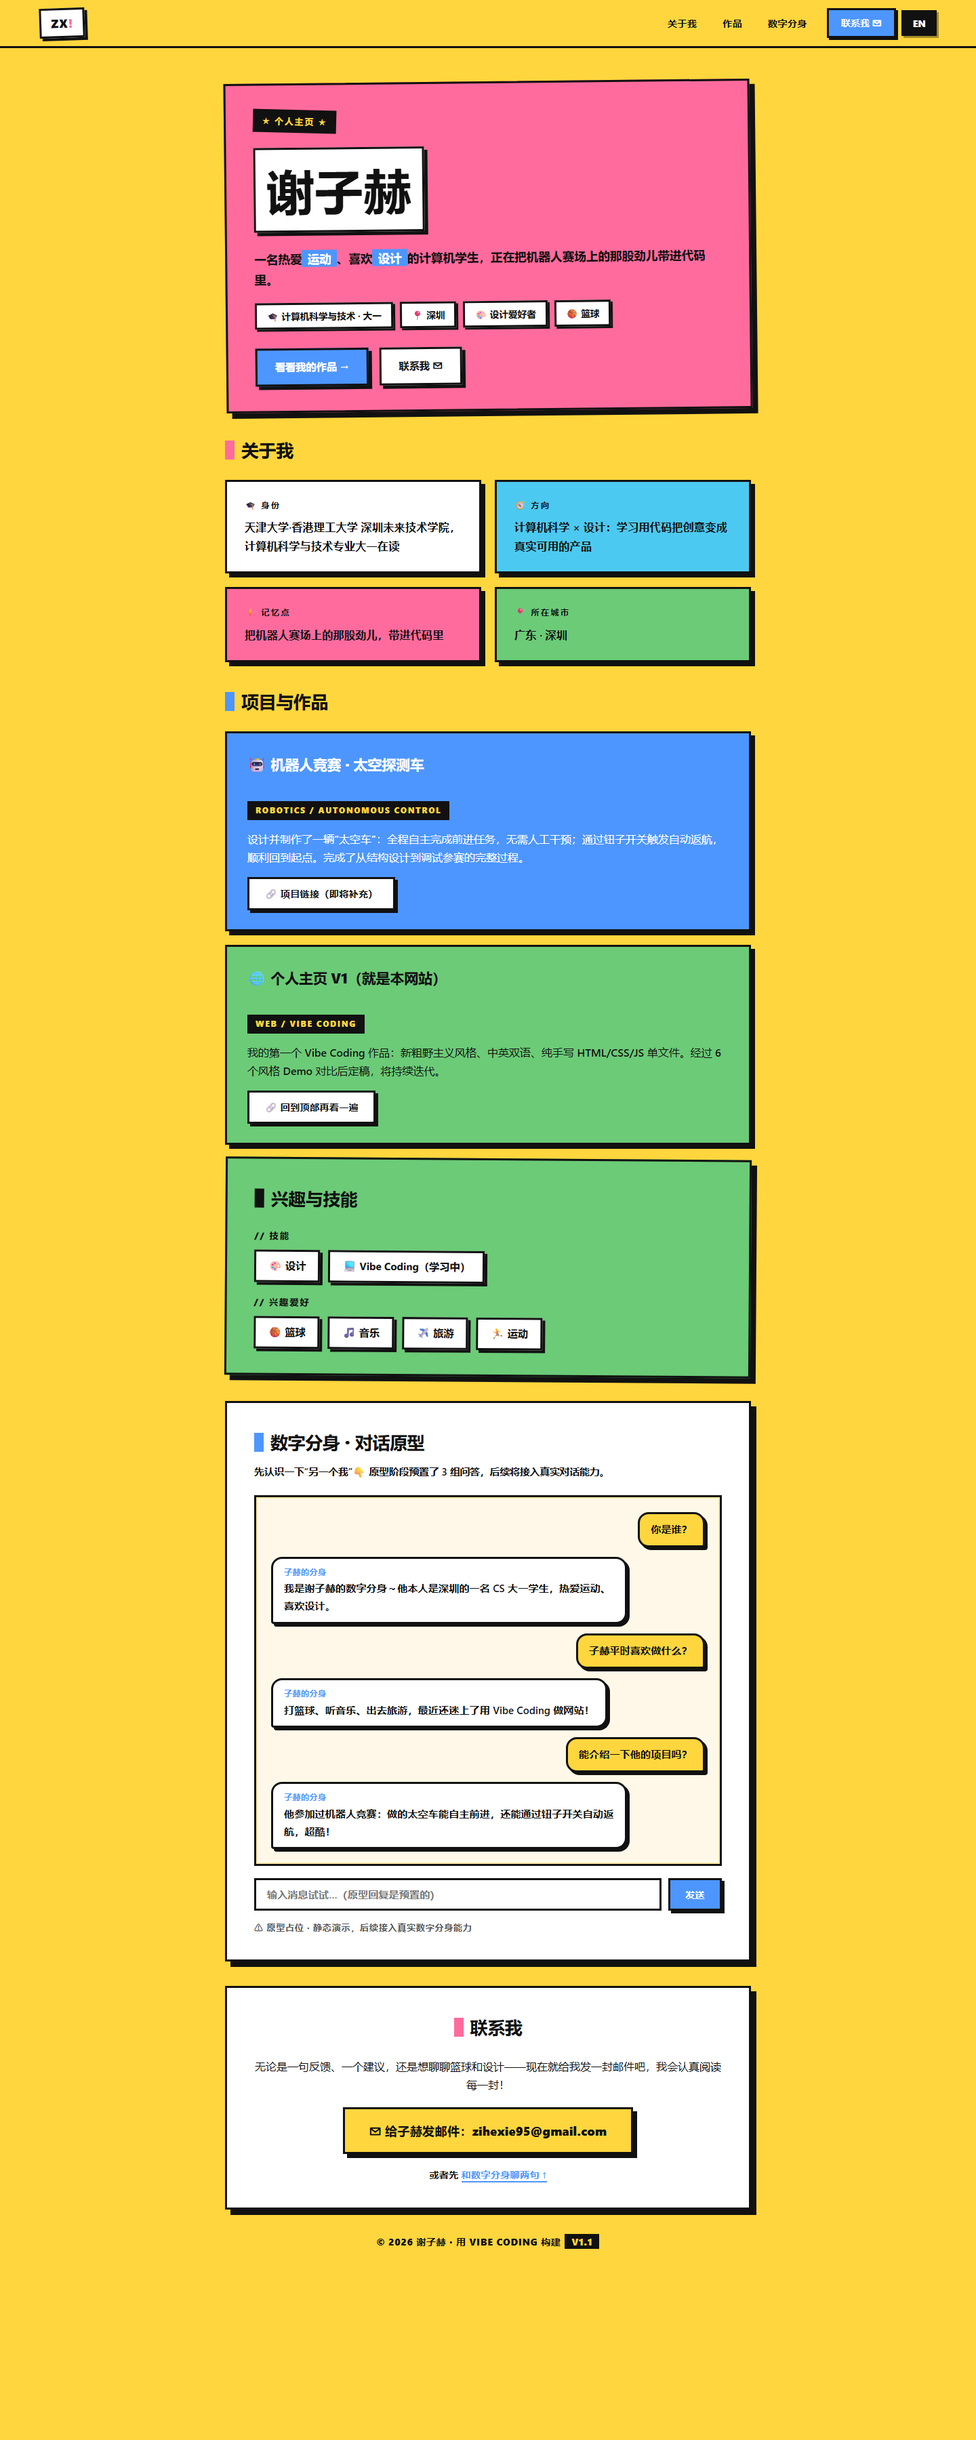
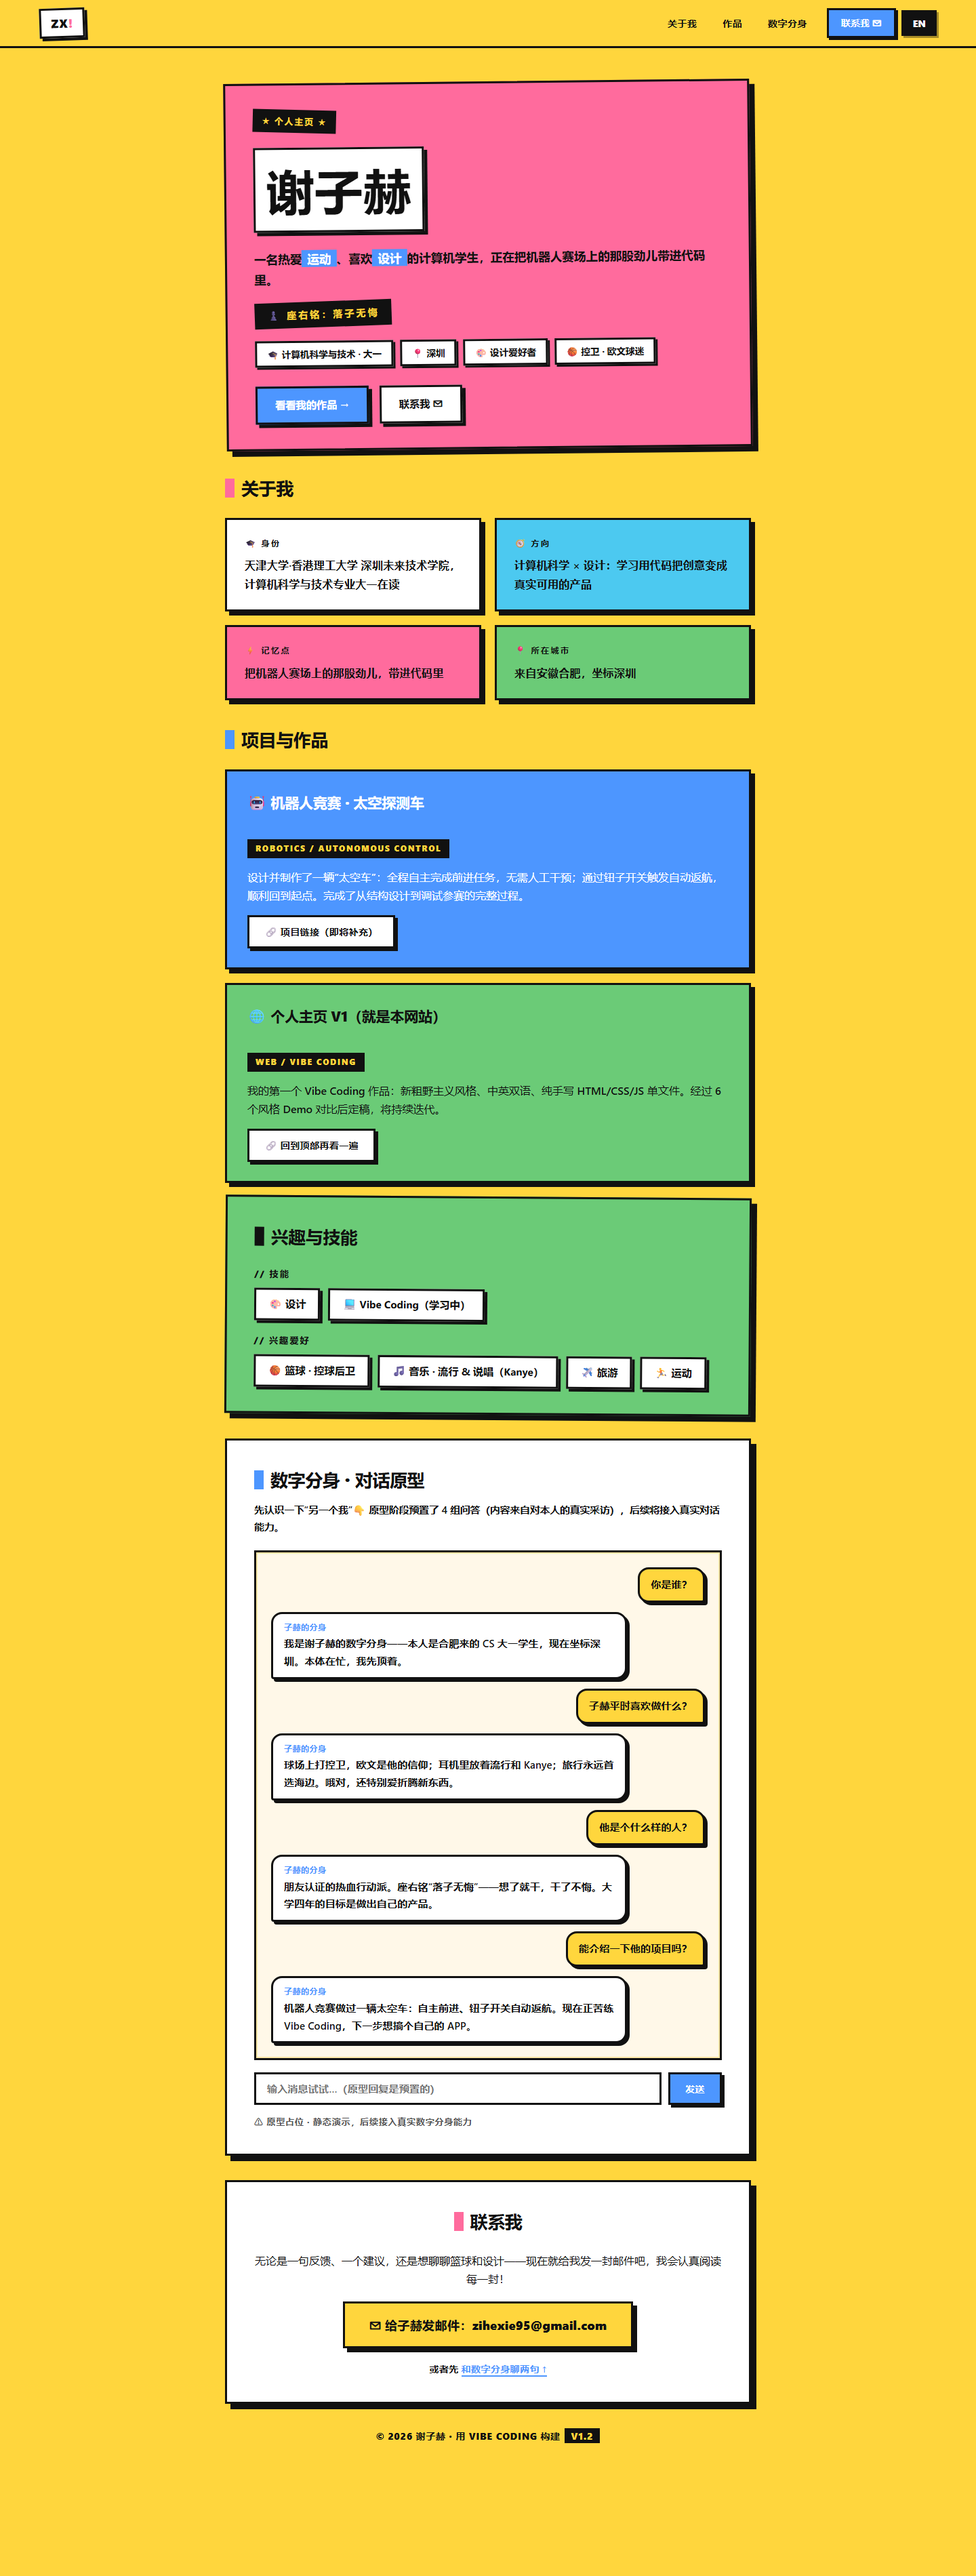
V1.2: 采访驱动内容升级（座右铭/合肥家乡/控卫欧文/Kanye/分身问答幽默吐槽化）

diff --git a/index.html b/index.html
@@ -68,6 +68,11 @@
   h1 span { background: #fff; padding: 0 16px; box-shadow: 5px 5px 0 #111; display: inline-block; border: 3px solid #111; }
   .intro { margin-top: 24px; font-size: 1.1rem; font-weight: 600; }
   .intro mark { background: #4d96ff; color: #fff; padding: 1px 8px; }
+  .motto { margin-top: 18px; }
+  .motto span {
+    display: inline-block; background: #111; color: #ffd63d; font-weight: 800;
+    font-size: .88rem; letter-spacing: 3px; padding: 7px 18px; transform: rotate(-1.5deg);
+  }
   .hero-tags { margin-top: 20px; display: flex; flex-wrap: wrap; gap: 10px; }
   .hero-tags span {
     background: #fff; border: 3px solid #111; font-weight: 700; font-size: .85rem;
@@ -198,11 +203,12 @@
     <span class="sticker" data-zh="★ 个人主页 ★" data-en="★ PERSONAL HOMEPAGE ★">★ 个人主页 ★</span>
     <h1><span data-zh="谢子赫" data-en="ZIHE XIE">谢子赫</span></h1>
     <p class="intro" id="introText">一名热爱<mark>运动</mark>、喜欢<mark>设计</mark>的计算机学生，正在把机器人赛场上的那股劲儿带进代码里。</p>
+    <p class="motto"><span data-zh="♟ 座右铭：落子无悔" data-en="♟ Motto: Make the move, no regrets">♟ 座右铭：落子无悔</span></p>
     <div class="hero-tags">
       <span data-zh="🎓 计算机科学与技术 · 大一" data-en="🎓 CS · Year 1">🎓 计算机科学与技术 · 大一</span>
       <span data-zh="📍 深圳" data-en="📍 Shenzhen">📍 深圳</span>
       <span data-zh="🎨 设计爱好者" data-en="🎨 Design lover">🎨 设计爱好者</span>
-      <span data-zh="🏀 篮球" data-en="🏀 Basketball">🏀 篮球</span>
+      <span data-zh="🏀 控卫 · 欧文球迷" data-en="🏀 PG · Kyrie fan">🏀 控卫 · 欧文球迷</span>
     </div>
     <div class="cta">
       <a class="blue" href="#works" data-zh="看看我的作品 →" data-en="View my works →">看看我的作品 →</a>
@@ -227,7 +233,7 @@
     </div>
     <div class="about-card c-green">
       <p class="k" data-zh="📍 所在城市" data-en="📍 CITY">📍 所在城市</p>
-      <p class="v" data-zh="广东 · 深圳" data-en="Shenzhen, Guangdong">广东 · 深圳</p>
+      <p class="v" data-zh="来自安徽合肥，坐标深圳" data-en="From Hefei, Anhui — now based in Shenzhen">来自安徽合肥，坐标深圳</p>
     </div>
   </div>
 
@@ -262,8 +268,8 @@
     </div>
     <p class="sub" data-zh="// 兴趣爱好" data-en="// HOBBIES">// 兴趣爱好</p>
     <div class="chips">
-      <span data-zh="🏀 篮球" data-en="🏀 Basketball">🏀 篮球</span>
-      <span data-zh="🎵 音乐" data-en="🎵 Music">🎵 音乐</span>
+      <span data-zh="🏀 篮球 · 控球后卫" data-en="🏀 Basketball · Point Guard">🏀 篮球 · 控球后卫</span>
+      <span data-zh="🎵 音乐 · 流行 & 说唱（Kanye）" data-en="🎵 Music · Pop & Hip-hop (Kanye)">🎵 音乐 · 流行 & 说唱（Kanye）</span>
       <span data-zh="✈ 旅游" data-en="✈ Traveling">✈ 旅游</span>
       <span data-zh="🏃 运动" data-en="🏃 Sports">🏃 运动</span>
     </div>
@@ -272,14 +278,16 @@
   <!-- 6. 数字分身 / 对话入口原型（静态占位） -->
   <section class="box twin" id="twin">
     <h2 class="sec"><span class="bar"></span><span data-zh="数字分身 · 对话原型" data-en="Digital Twin · Chat Prototype">数字分身 · 对话原型</span></h2>
-    <p class="sec-note" data-zh="先认识一下“另一个我”👇 原型阶段预置了 3 组问答，后续将接入真实对话能力。" data-en="Meet 'the other me' 👇 The prototype ships with 3 preset Q&As; real conversation ability comes later.">先认识一下“另一个我”👇 原型阶段预置了 3 组问答，后续将接入真实对话能力。</p>
+    <p class="sec-note" data-zh="先认识一下“另一个我”👇 原型阶段预置了 4 组问答（内容来自对本人的真实采访），后续将接入真实对话能力。" data-en="Meet 'the other me' 👇 The prototype ships with 4 preset Q&As (based on a real interview with him); real conversation ability comes later.">先认识一下“另一个我”👇 原型阶段预置了 4 组问答（内容来自对本人的真实采访），后续将接入真实对话能力。</p>
     <div class="chat" id="chatBox">
       <div class="msg q" data-zh="你是谁？" data-en="Who are you?">你是谁？</div>
-      <div class="msg a"><span class="who" data-zh="子赫的分身" data-en="ZIHE'S TWIN">子赫的分身</span><span data-zh="我是谢子赫的数字分身～他本人是深圳的一名 CS 大一学生，热爱运动、喜欢设计。" data-en="I'm Zihe's digital twin~ The real him is a first-year CS student in Shenzhen who loves sports and design.">我是谢子赫的数字分身～他本人是深圳的一名 CS 大一学生，热爱运动、喜欢设计。</span></div>
+      <div class="msg a"><span class="who" data-zh="子赫的分身" data-en="ZIHE'S TWIN">子赫的分身</span><span data-zh="我是谢子赫的数字分身——本人是合肥来的 CS 大一学生，现在坐标深圳。本体在忙，我先顶着。" data-en="I'm Zihe's digital twin — the real one is a CS freshman from Hefei, now based in Shenzhen. He's busy, so I'm covering for him.">我是谢子赫的数字分身——本人是合肥来的 CS 大一学生，现在坐标深圳。本体在忙，我先顶着。</span></div>
       <div class="msg q" data-zh="子赫平时喜欢做什么？" data-en="What does Zihe like to do?">子赫平时喜欢做什么？</div>
-      <div class="msg a"><span class="who" data-zh="子赫的分身" data-en="ZIHE'S TWIN">子赫的分身</span><span data-zh="打篮球、听音乐、出去旅游，最近还迷上了用 Vibe Coding 做网站！" data-en="Basketball, music, traveling — and lately, building websites with Vibe Coding!">打篮球、听音乐、出去旅游，最近还迷上了用 Vibe Coding 做网站！</span></div>
+      <div class="msg a"><span class="who" data-zh="子赫的分身" data-en="ZIHE'S TWIN">子赫的分身</span><span data-zh="球场上打控卫，欧文是他的信仰；耳机里放着流行和 Kanye；旅行永远首选海边。哦对，还特别爱折腾新东西。" data-en="Point guard on the court, Kyrie is his idol; pop and Kanye in his headphones; the seaside is always his first travel pick. Oh, and he loves tinkering with new stuff.">球场上打控卫，欧文是他的信仰；耳机里放着流行和 Kanye；旅行永远首选海边。哦对，还特别爱折腾新东西。</span></div>
+      <div class="msg q" data-zh="他是个什么样的人？" data-en="What kind of person is he?">他是个什么样的人？</div>
+      <div class="msg a"><span class="who" data-zh="子赫的分身" data-en="ZIHE'S TWIN">子赫的分身</span><span data-zh="朋友认证的热血行动派。座右铭“落子无悔”——想了就干，干了不悔。大学四年的目标是做出自己的产品。" data-en="A certified man of action. His motto: 'Make the move, no regrets.' His four-year goal: build a product of his own.">朋友认证的热血行动派。座右铭“落子无悔”——想了就干，干了不悔。大学四年的目标是做出自己的产品。</span></div>
       <div class="msg q" data-zh="能介绍一下他的项目吗？" data-en="Tell me about his project.">能介绍一下他的项目吗？</div>
-      <div class="msg a"><span class="who" data-zh="子赫的分身" data-en="ZIHE'S TWIN">子赫的分身</span><span data-zh="他参加过机器人竞赛：做的太空车能自主前进，还能通过钮子开关自动返航，超酷！" data-en="He built a space rover for a robotics competition: it drives forward autonomously and returns home via a toggle switch. Super cool!">他参加过机器人竞赛：做的太空车能自主前进，还能通过钮子开关自动返航，超酷！</span></div>
+      <div class="msg a"><span class="who" data-zh="子赫的分身" data-en="ZIHE'S TWIN">子赫的分身</span><span data-zh="机器人竞赛做过一辆太空车：自主前进、钮子开关自动返航。现在正苦练 Vibe Coding，下一步想搞个自己的 APP。" data-en="He built a space rover for a robotics competition: autonomous forward run plus toggle-switch auto-return. Now grinding Vibe Coding — next up, an app of his own.">机器人竞赛做过一辆太空车：自主前进、钮子开关自动返航。现在正苦练 Vibe Coding，下一步想搞个自己的 APP。</span></div>
     </div>
     <div class="chat-input">
       <input id="chatInput" type="text" data-zh-ph="输入消息试试…（原型回复是预置的）" data-en-ph="Type a message… (prototype replies are preset)" placeholder="输入消息试试…（原型回复是预置的）">
@@ -298,7 +306,7 @@
 
   <!-- 8. 页脚 Footer：版权 + 年份自动更新 -->
   <footer>
-    <span data-zh="© " data-en="© ">© </span><span id="year">2026</span><span data-zh=" 谢子赫 · 用 VIBE CODING 构建" data-en=" ZIHE XIE · BUILT WITH VIBE CODING"> 谢子赫 · 用 VIBE CODING 构建</span><span class="ver">V1.1</span>
+    <span data-zh="© " data-en="© ">© </span><span id="year">2026</span><span data-zh=" 谢子赫 · 用 VIBE CODING 构建" data-en=" ZIHE XIE · BUILT WITH VIBE CODING"> 谢子赫 · 用 VIBE CODING 构建</span><span class="ver">V1.2</span>
   </footer>
 </div>
 
@@ -342,8 +350,8 @@
   const chatInput = document.getElementById('chatInput');
   const chatSend = document.getElementById('chatSend');
   const reply = {
-    zh: '分身还在学习中🌱 正式对话能力将在后续版本上线，先通过邮件联系我本人吧！',
-    en: 'My twin is still learning 🌱 Real chat ability ships in a later version — meanwhile, email the real me!'
+    zh: '喂，我只是个原型，脑子还没装好呢😅 想问真的，发邮件骚扰他本人吧！',
+    en: 'Hey, I\'m just a prototype — brain not installed yet 😅 For real answers, go email the real guy!'
   };
   function sendMsg() {
     const text = chatInput.value.trim();

diff --git a/V1-提交材料.md b/V1-提交材料.md
@@ -26,11 +26,11 @@
 **页面板块**（按课程结构规范，自上而下）：
 
 1. **顶部导航 Header**：品牌 Logo（ZX!）+ 菜单锚点 + 主行动按钮（联系我）+ 中/EN 双语切换
-2. **Hero 首屏**：姓名 + 一句话介绍 + 标签（CS 大一 / 深圳 / 设计 / 篮球）+ 两个主行动按钮
-3. **关于我**：4 张卡片 —— 身份、方向、记忆点（把机器人赛场上的那股劲儿带进代码里）、所在城市（深圳）
+2. **Hero 首屏**：姓名 + 一句话介绍 + 座右铭（落子无悔）+ 标签（CS 大一 / 深圳 / 设计 / 控卫·欧文）+ 两个主行动按钮
+3. **关于我**：4 张卡片 —— 身份、方向、记忆点（把机器人赛场上的那股劲儿带进代码里）、所在城市（来自合肥，坐标深圳）
 4. **项目与作品**：太空探测车（简介 + 链接占位）、个人主页本身（简介 + 链接）
-5. **兴趣 / 技能**：设计、Vibe Coding／篮球、音乐、旅游、运动
-6. **数字分身 / 对话入口原型**：静态占位，预置 3 组问答 + 可交互输入框（预置回复），后续接入真实能力
+5. **兴趣 / 技能**：设计、Vibe Coding／篮球·控卫、音乐·流行&说唱（Kanye）、旅游、运动
+6. **数字分身 / 对话入口原型**：静态占位，预置 4 组问答（内容来自对本人的真实采访）+ 可交互输入框，后续接入真实能力
 7. **联系我**：真实邮箱 + 全页唯一主行动（"给子赫发邮件"大按钮）
 8. **页脚 Footer**：版权 + 年份自动更新（JS `getFullYear()`）
 
@@ -47,7 +47,8 @@
 | Round 1 | 第一版采用"深色科技感"风格（网格背景 + 霓虹光晕） | 本人评审后不满意，提出风格问题 |
 | Round 2 | 用同一套真实内容制作 **6 个风格 Demo** 并做总览对比页 | 可横向对比 6 种视觉方向 |
 | Round 3 | 逐一预览对比后选定**新粗野主义**，重制正式版并保留双语功能 | V1.0 |
-| Round 4 | 按课程结构规范改版为 **8 板块**：关于我 4 卡片、作品加链接、新增数字分身对话原型、页脚年份自动更新 | 当前 V1.1 |
+| Round 4 | 按课程结构规范改版为 **8 板块**：关于我 4 卡片、作品加链接、新增数字分身对话原型、页脚年份自动更新 | V1.1 |
+| Round 5 | 开展**三轮用户采访**（篮球/音乐/性格/目标/家乡/座右铭），把真实答案注入主页与数字分身问答 | 当前 V1.2 |
 
 ### Demo 清单（保留于 `_work/demos/`）
 
@@ -87,9 +88,10 @@ e18f92c docs: 制作 6 个风格 Demo 与总览对比页，评审后选定新粗
 | 版本 | 状态 | 说明 |
 | --- | --- | --- |
 | V1.0 | 历史版本 | 新粗野主义风格正式版，中英双语（git 提交 `3775520`） |
-| V1.1 | ✅ 当前版本 | 按课程结构规范改版：8 板块 + 数字分身原型 + 自动年份页脚 |
+| V1.1 | 历史版本 | 按课程结构规范改版：8 板块 + 数字分身原型 + 自动年份页脚（git 提交 `a200ec3`） |
+| V1.2 | ✅ 当前版本 | 采访驱动的内容升级：座右铭/家乡/控卫欧文/Kanye 等真实细节，分身问答重写为幽默吐槽风 |
 
-**本轮主要改动**：导航增加主行动按钮 → Hero 增加标签 → 关于我改为 4 卡片（身份/方向/记忆点/城市）→ 作品条目化并加链接 → 新增数字分身对话原型（静态占位）→ 联系页收敛为单一明确行动 → 页脚年份自动更新。
+**本轮主要改动**：三轮采访收集真实个人信息 → Hero 增加座右铭"落子无悔"→ 城市卡片改为"来自合肥，坐标深圳"→ 兴趣标签具体化（控卫·欧文、流行&说唱·Kanye）→ 数字分身问答扩为 4 组并改为幽默吐槽人格。
 
 ---
 

diff --git a/V1-版本记录.md b/V1-版本记录.md
@@ -21,16 +21,31 @@
 
 > Demo 文件保留在 `_work/demos/` 目录，作为迭代过程的证据。
 
-## 页面结构（V1.1，按课程结构规范）
+## 页面结构（V1.2，采访驱动的内容升级版）
 
 1. **顶部导航 Header**：品牌 Logo + 菜单锚点 + 主行动按钮（联系我）+ 中/EN 双语切换
-2. **Hero 首屏**：姓名 + 一句话介绍 + 标签 + 两个主行动按钮
-3. **关于我**：4 张卡片（身份 / 方向 / 记忆点：赛场劲儿带进代码 / 城市：深圳）
+2. **Hero 首屏**：姓名 + 一句话介绍 + 座右铭"落子无悔" + 标签 + 两个主行动按钮
+3. **关于我**：4 张卡片（身份 / 方向 / 记忆点：赛场劲儿带进代码 / 城市：来自合肥，坐标深圳）
 4. **项目与作品**：太空探测车（简介 + 链接占位）、个人主页本身（简介 + 链接）
-5. **兴趣 / 技能**：设计 / 篮球 / 音乐 / 旅游 / 运动
-6. **数字分身 · 对话原型**：静态占位，预置 3 组问答 + 可交互输入框
+5. **兴趣 / 技能**：设计 / 篮球·控卫·欧文 / 音乐·流行&说唱（Kanye）/ 旅游·海边 / 运动
+6. **数字分身 · 对话原型**：4 组真实采访问答（幽默吐槽人格）+ 可交互输入框
 7. **联系我**：真实邮箱 + 全页唯一主行动（发邮件大按钮）
-8. **页脚**：版权 + 年份自动更新 + 版本徽章 V1.1
+8. **页脚**：版权 + 年份自动更新 + 版本徽章 V1.2
+
+## 用户采访记录（V1.2 内容来源）
+
+通过三轮结构化采访收集的真实信息：
+
+| 主题 | 答案 |
+| --- | --- |
+| 篮球 | 控球后卫，偶像凯里·欧文 |
+| 音乐 | 流行 + 说唱，Kanye |
+| 性格（朋友眼中） | 热血行动派、爱折腾 |
+| 大学目标 | 做出自己的产品/APP |
+| 旅行 | 最爱海边 |
+| 家乡 | 安徽合肥（现居深圳） |
+| 座右铭 | 落子无悔 |
+| 数字分身人格 | 幽默吐槽型 |
 
 ## 技术说明
 
